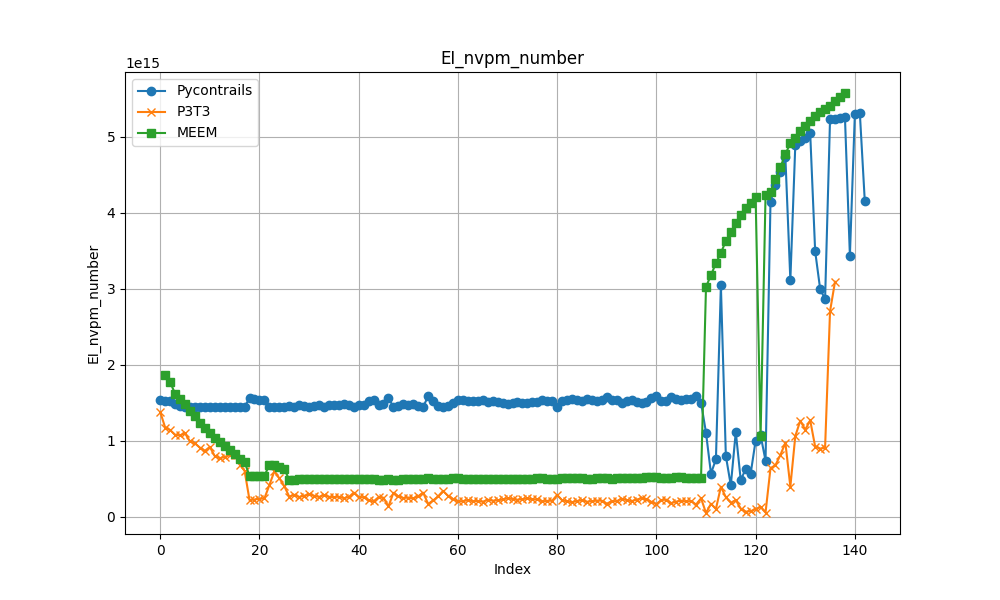
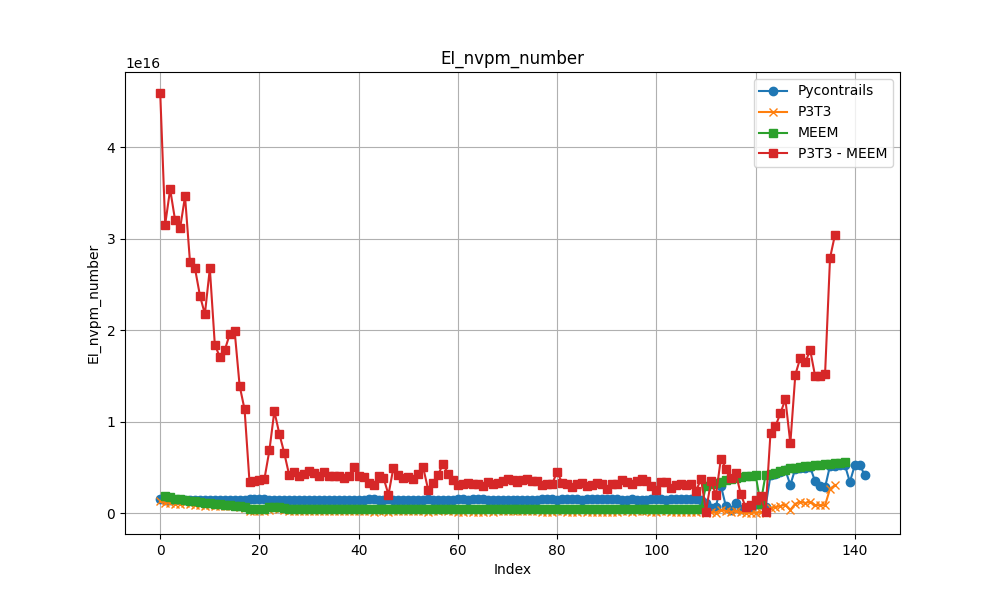
p3t3 x meem with the interpolation -> better than curvefitting? meem had small error in computing nvpm_number

Changed region(s): [[0.093, 0.12, 0.899, 0.87], [0.124, 0.12, 0.248, 0.27], [0.155, 0.3, 0.217, 0.39]]

diff --git a/emission_index.py b/emission_index.py
@@ -617,7 +617,7 @@ def p3t3_nvpm_meem(PT3_inflight, TT3_inflight, FAR_inflight, interp_func_far, in
         ei_nvpm_mass = ei_nvpm_mass_sls * (PT3_inflight/pt3_sls)**1.35*(FAR_inflight/far_sls)**2.5
         # ei_nvpm_mass = ei_nvpm_mass_sls * (PT3_inflight / pt3_sls) ** 1.35 * (1.1) ** 2.5
 
-        result = ei_nvpm_mass * ei_nvpm_number_sls
+        result = ei_nvpm_mass * (ei_nvpm_number_sls/ ei_nvpm_mass_sls)
         print(result)
     # elif saf == 20:
     #     ei_nvpm_mass_sls = (-0.5444 * t ** 6) + (-4.4315 * t ** 5) - (5.3065 * t ** 4) + (8.8020 * t ** 3) + (

diff --git a/verification_emissions.py b/verification_emissions.py
@@ -362,8 +362,7 @@ df_gsp['EI_nvpm_number_p3t3_meem'] = df_gsp.apply(
         row['FAR'],
         interp_func_far,
         interp_func_pt3,
-        0,
-        row['flight_phase']
+        0
     ),
     axis=1
 )
